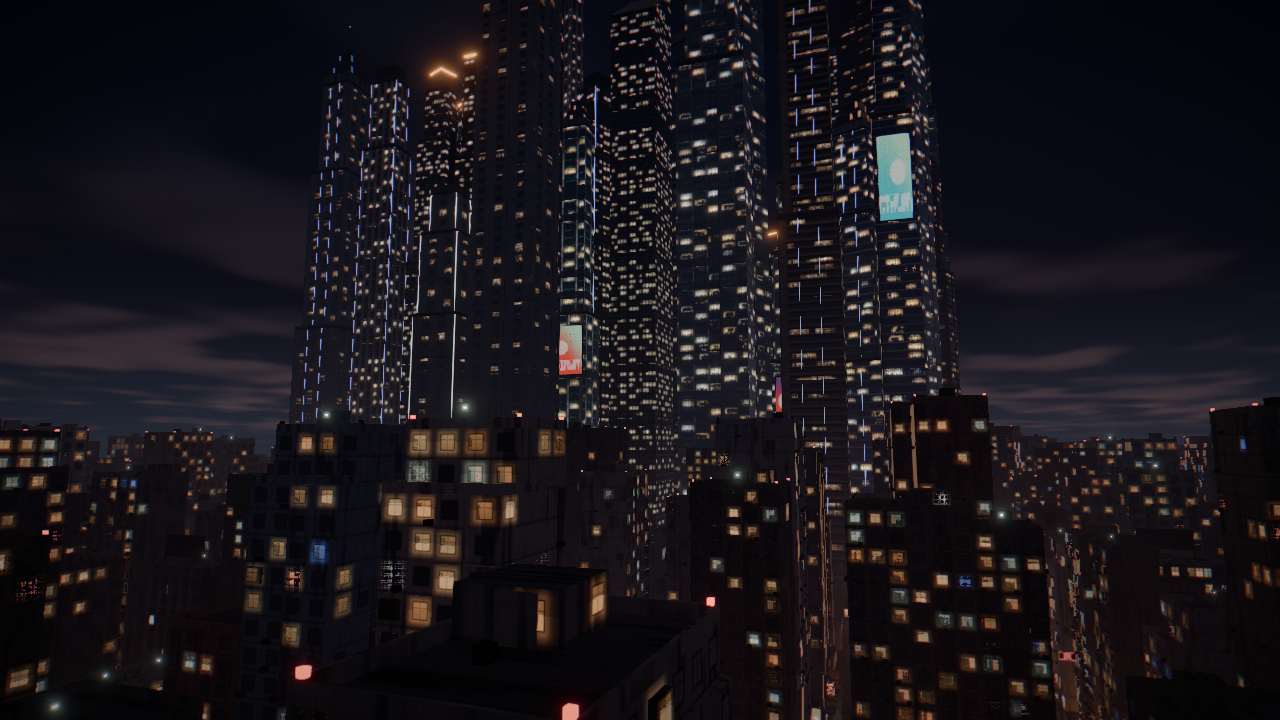
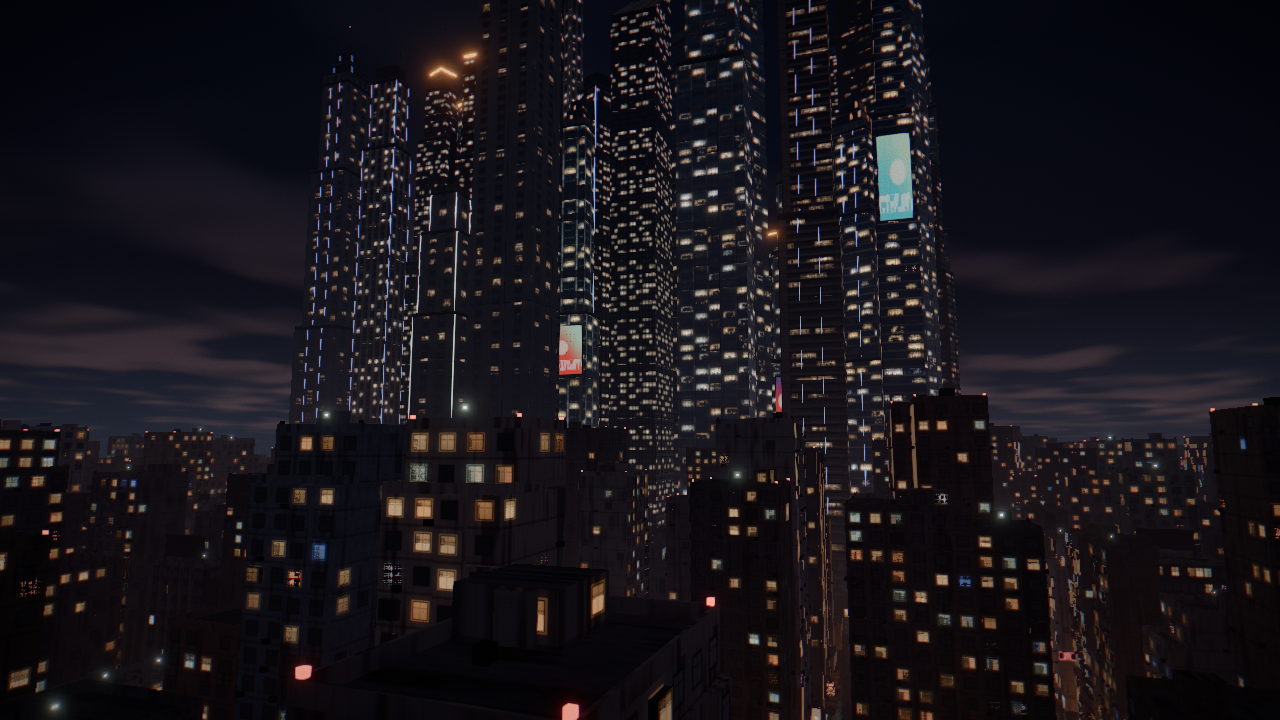
Facade: seamless round window glow and lit reveals instead of square halos

diff --git a/src/materials/facade.ts b/src/materials/facade.ts
@@ -239,6 +239,23 @@ vec3 room(vec2 wp, vec2 wsize, vec3 vt, vec3 col, float h) {
   return col * paint * c * light;
 }
 
+// Light of the window in cell cid (0 if unlit): same hashes and rules as windowLayer, so
+// neighboring cells can contribute spill without seams at cell borders.
+vec3 cellLight(int type, vec2 cid, float fill, float seed) {
+  float s = seed * 97.13;
+  if (fHash(cid + s) > fill) return vec3(0.0);
+  float litRatio = mix(0.25, 0.55, fract(seed * 7.31));
+  if (type == T_OFFICE || type == T_CURTAIN) {
+    litRatio *= type == T_CURTAIN ? 0.3 : 0.5;
+    float floorOn = fHash(vec2(cid.y, floor(cid.x / 7.0) + s + 3.1));
+    litRatio *= floorOn < 0.45 ? 0.0 : floorOn > 0.9 ? 3.0 : 1.0;
+  }
+  if (fHash(cid + s + 17.7) > litRatio) return vec3(0.0);
+  float hTemp = fHash(cid + s + 5.3);
+  vec3 col = hTemp < 0.62 ? P_TUNGSTEN : hTemp < 0.8 ? mix(P_TUNGSTEN, P_SODIUM, 0.55) : hTemp < 0.94 ? P_FLUORESCENT : P_TV;
+  return col * mix(0.9, 2.2, fHash(cid + s + 2.9));
+}
+
 // Window layer for residential / office / curtain facades (cage reuses residential).
 void windowLayer(int type, vec2 uvm, vec2 fw, float fill, float seed, vec3 vt, out vec3 emit, out float mask, out float frame,
                  out vec3 cellEmit, out vec3 rowEmit, out vec3 avgEmit, out float windowFrac, out float around,
@@ -300,11 +317,20 @@ void windowLayer(int type, vec2 uvm, vec2 fw, float fill, float seed, vec3 vt, o
   // Recess shadow just around the opening.
   around = present * max(fBox(p.x, r.x - 0.14, r.y + 0.14, fw.x) * fBox(p.y, r.z - 0.1, r.w + 0.12, fw.y) - mask, 0.0);
 
-  // Light from a lit window falls on the wall around it: falloff from the opening's edge.
+  // Light from lit windows: a faint round glow on the wall from every window in the 3×3
+  // neighborhood (elliptical falloff from the window center, so no rectangular contours),
+  // plus the lit reveal: the recess right around this cell's own opening.
   vec2 wc = (r.xz + r.yw) * 0.5, wh = (r.yw - r.xz) * 0.5;
-  float wd = length(max(abs(p - wc) - wh, 0.0));
-  spill = lit * col * inten * 0.55 * exp(-wd / 0.22) * (1.0 - mask) * (0.6 + 0.4 * step(p.y, wc.y));
-  avgSpill = fill * min(litRatio, 1.0) * mix(P_TUNGSTEN, P_SODIUM, 0.2) * 1.45 * 0.06;
+  spill = vec3(0.0);
+  for (int j = -1; j <= 1; j++) for (int i = -1; i <= 1; i++) {
+    vec2 o = vec2(float(i), float(j));
+    vec3 L = cellLight(type, cid + o, fill, seed);
+    vec2 q2 = (p - (wc + o * cell)) / (wh + vec2(0.9, 0.8));
+    spill += L * exp(-dot(q2, q2) * 2.2);
+  }
+  spill *= 0.035 * (1.0 - mask);
+  spill += lit * col * inten * 0.3 * around;
+  avgSpill = fill * min(litRatio, 1.0) * mix(P_TUNGSTEN, P_SODIUM, 0.2) * 1.45 * 0.03;
 
   // Unlit glass reflects the sky glow; lit glass shows the room.
   vec3 rv = reflect(-vt, vec3(0.0, 0.0, 1.0));

diff --git a/docs/NOTES.md b/docs/NOTES.md
@@ -271,3 +271,10 @@ wanted; we keep our palette. New viewpoint `skyline` matches the screenshot's fr
 - Canyon walls are still evenly brown-lit end to end; real streets have pools and shadow.
 - Rooflines are still clean boxes (step 3: tanks on stands, antennas, cranes, skybridges).
 - Screens still pale; no mid-height vertical signs (step 4).
+
+### Human review: window spill (chat, 2026-09-25)
+- Window light spread "in a weird discrete way" around each window. Cause: the glow was cut
+  at the cell border and its falloff followed the window rectangle, so each lit window wore
+  a square frame of light. Fix: faint elliptical glow summed over the 3×3 neighboring
+  windows (seamless), and most of the light moved to the lit reveal (recess) right around
+  the opening, which is where real window light lands.
